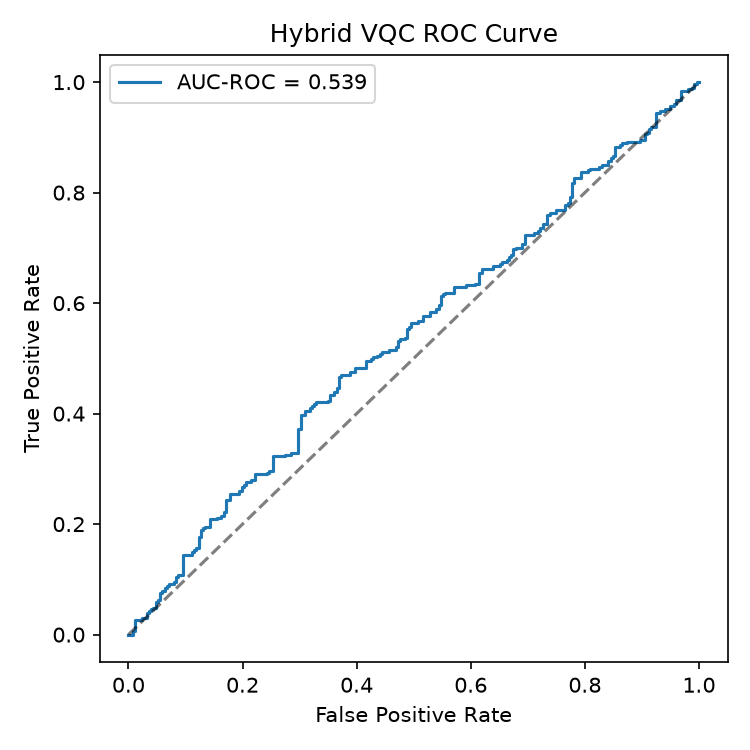
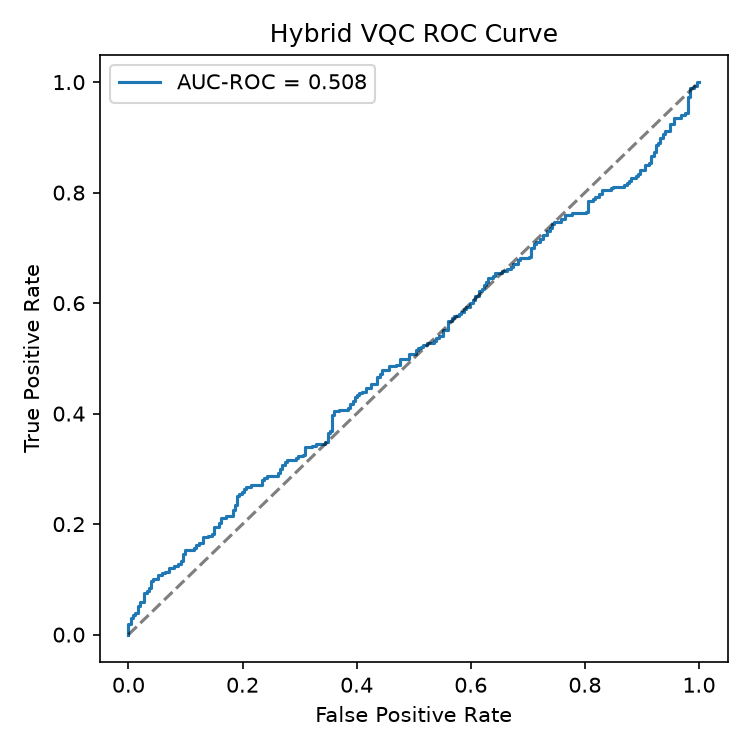
Bug Fix

diff --git a/AGENTS.md b/AGENTS.md
@@ -115,3 +115,42 @@ Theme toggle persists `rppgqc.theme` in localStorage; respects `prefers-reduced-
 Run: `python -m quantum.pipeline --all` (or `--build-data --select --train`) and `python run_pipeline.py --source <video> --method POS` from `WORKING/`. From `frontend/`: `python server.py` + `npm run dev`.
 
 `Docs/projec_audit.md` is gone (deleted with the other pre-2026-08 docs). The current remediation roadmap lives in `Docs/DEEPFAKE_KYC_SEQUENTIAL_REMEDIATION_PLAN.md` (24 severity-ordered phases; 1A–1C status in the Verification section); `Docs/Key_Findings_Contributions_Significance.md` is the honest findings/contributions write-up; `Docs/problems.md` is the ranked problem analysis.
+
+## Agent Skills (OpenCode)
+
+This project uses skills installed under `~/.config/opencode/skills/`.
+
+### Core Rules
+- If a task matches a skill, invoke it with the `skill` tool before acting.
+- Skills are located in `~/.config/opencode/skills/<skill-name>/SKILL.md`.
+- Follow the skill workflow strictly; do not partially apply it.
+- Never skip required steps such as spec, plan, or test when a skill demands them.
+
+### Intent → Skill Mapping
+| User Intent | Primary Skill | Follow-up Skills |
+|-------------|---------------|------------------|
+| "Build a feature" / "Add X" | `spec-driven-development` | `incremental-implementation`, `test-driven-development` |
+| "Plan this work" / "Break it down" | `planning-and-task-breakdown` | — |
+| "Fix this bug" / "It's broken" | `debugging-and-error-recovery` | `test-driven-development` |
+| "Review this PR" / "Check my code" | `code-review-and-quality` | — |
+| "Simplify this" / "Refactor" | `code-simplification` | `test-driven-development` |
+| "Design an API" / "Define interface" | `api-and-interface-design` | `spec-driven-development` |
+| "Build UI" / "Fix the frontend" | `frontend-ui-engineering` | `test-driven-development` |
+| "Improve performance" | `performance-optimization` | `observability-and-instrumentation` |
+| "Secure this" / "Audit security" | `security-and-hardening` | — |
+| "Set up CI/CD" | `ci-cd-and-automation` | `git-workflow-and-versioning` |
+| "Write docs / ADR" | `documentation-and-adrs` | — |
+| "Ship / deploy" | `shipping-and-launch` | — |
+
+### Execution Model
+For every request:
+1. Determine if any skill applies (even a small chance).
+2. Load the skill with `skill({ name: "<skill-name>" })`.
+3. Follow the skill workflow exactly.
+4. Only proceed to implementation once required steps are complete.
+
+### Project-Specific Overrides
+- **Test framework:** Python `unittest`/`assert` (no pytest), Vitest + React Testing Library for frontend
+- **Lint:** Python `ruff` (if configured), eslint + prettier for frontend
+- **Git:** trunk-based, conventional commits
+- **Definition of Done:** See `~/.config/opencode/references/definition-of-done.md`

diff --git a/.opencode/commands/spec.md b/.opencode/commands/spec.md
@@ -1,0 +1,4 @@
+---
+description: Write a spec before implementation
+---
+Invoke `spec-driven-development`. Produce SPEC.md with objectives, acceptance criteria, boundaries.

diff --git a/.opencode/commands/plan.md b/.opencode/commands/plan.md
@@ -1,0 +1,4 @@
+---
+description: Break spec into tasks
+---
+Invoke `planning-and-task-breakdown`. Read SPEC.md, output TASKS.md with dependency order.

diff --git a/.opencode/commands/build.md b/.opencode/commands/build.md
@@ -1,0 +1,4 @@
+---
+description: Implement next task
+---
+Invoke `incremental-implementation`. Read TASKS.md, implement one task, test, commit.

diff --git a/.opencode/commands/review.md b/.opencode/commands/review.md
@@ -1,0 +1,4 @@
+---
+description: Review changes
+---
+Invoke `code-review-and-quality`. Apply five-axis review to staged changes.
